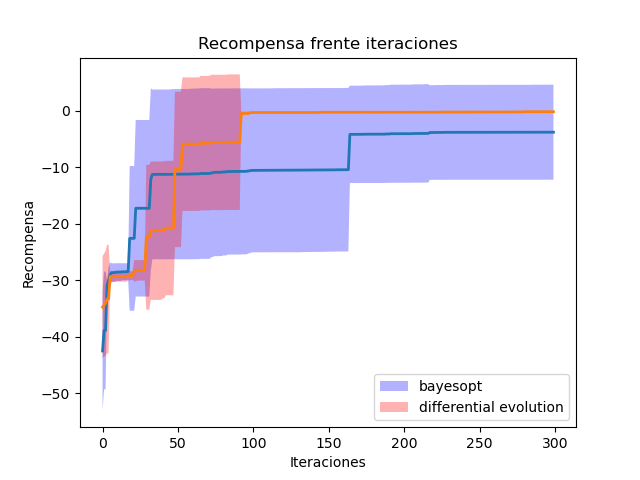
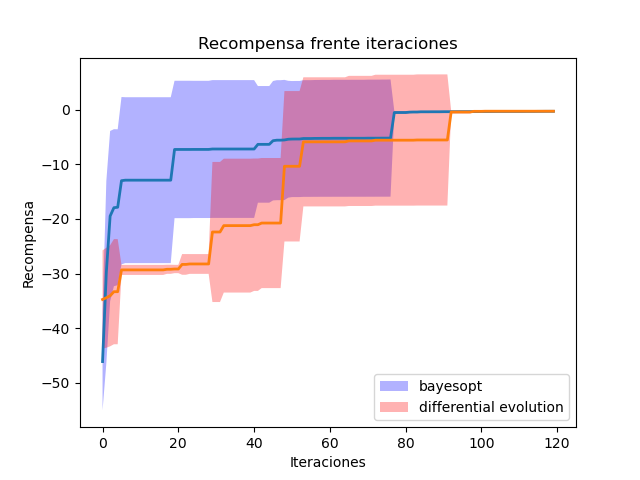
Grafica para pick and place con un contenedor.

diff --git a/print_graph.py b/print_graph.py
@@ -43,10 +43,10 @@ for resultado in lista_de_resultados:
     n, it = range(res.shape[0]), range(res.shape[1])
     t_limits = sp.t.interval(0.95, n_experimentos) / np.sqrt(n_experimentos)
 
-    res = res[0:300]
-    res_mean = res_mean[0:300]
-    res_std = res_std[0:300]
-    it = it[0:300]
+    res = res[0:120]
+    res_mean = res_mean[0:120]
+    res_std = res_std[0:120]
+    it = it[0:120]
 
     plt.plot(it, res_mean, linewidth=2, label=None)
     plt.fill(np.concatenate([it, it[::-1]]),
